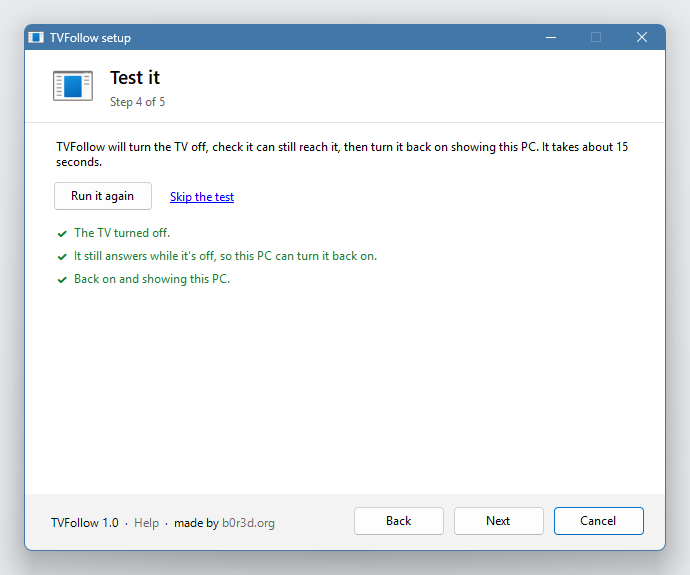
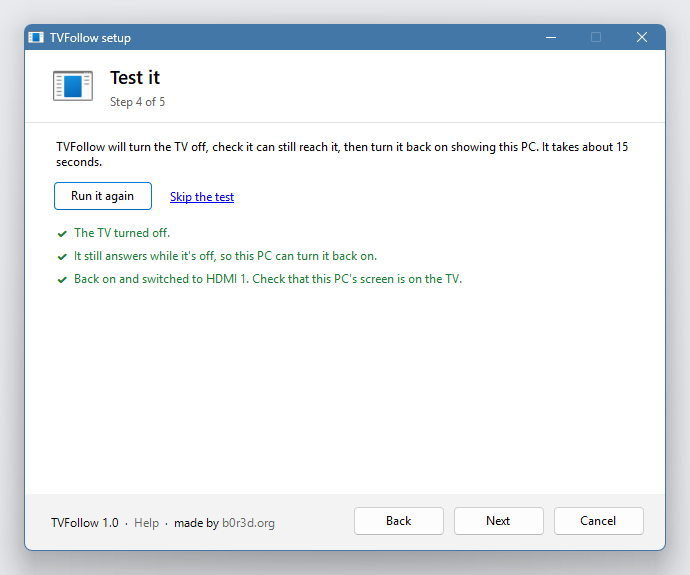
Docs: match the fixes
Windows 10 menu names next to Windows 11 ones, the Network access step everywhere, what the network search does now, the new log lines, pause across restarts, what the checksum is for, build.cmd's pause, a settings table instead of inline comments. New screenshots (the TV list's font, the test's last line).

Changed region(s): [[0.213, 0.473, 0.6696, 0.5026]]

diff --git a/docs/TROUBLESHOOTING.md b/docs/TROUBLESHOOTING.md
@@ -11,7 +11,9 @@ explained:
 | `waiting for the mouse or keyboard before turning the TV on` | The screens came on with nobody there, so it waits for you |
 | `power on (was DisplayOff) -> 200` | It pressed the TV's power button, and the TV said OK |
 | `-> 403` | The TV refused: its Network access setting is on Limited (see below) |
-| `TV not answering, sending a wake packet` | The TV was asleep too deeply to answer, so TVFollow sent the network wake signal |
+| `TV not answering, sent a wake packet (3 addresses)` | The TV was asleep too deeply to answer, so TVFollow sent the network wake signal |
+| `no network to send a wake packet on` | The PC's own network wasn't up yet (just after sleep, say) |
+| `this PC isn't on the TV's network` | A laptop away from home, say: TVFollow leaves the network alone |
 | `TV found at 192.168.1.73` | The router gave the TV a new address, and TVFollow found it again |
 
 ## Setup can't find my TV
@@ -21,10 +23,11 @@ explained:
 - Some mesh routers and Wi-Fi extenders keep devices from seeing each other ("client
   isolation" or "AP isolation"). Check the router's app.
 - Type the address in: click **Enter the TV's address instead**. The TV shows its
-  address under **Settings → Network → About**.
-- If **Control by mobile apps** is switched off on the TV, it doesn't answer at all. On
-  the TV: **Settings → System → Advanced system settings → Control by mobile apps**, and
-  set it to **Enabled**.
+  address under **Settings → Network → About**. TVFollow remembers it, so reopening
+  Settings finds the TV again.
+- If the TV's **Network access** is set to **Disabled**, it doesn't answer at all. On
+  the TV: **Settings → System → Advanced system settings → Control by mobile apps →
+  Network access → Enabled**.
 - A Roku **stick or box** shows up greyed out. It can't turn a TV on or off, so
   TVFollow can't use it.
 
@@ -41,9 +44,9 @@ The TV probably switches its network off along with the screen.
 1. On the TV: **Settings → System → Power → Fast TV start**, and turn it on.
 2. Run the test again: right-click the TV icon → **Settings…** → go to **Test it**.
 
-TVFollow also sends a network wake signal when the TV doesn't answer, which wakes many
-TVs even from deep standby. If the log shows `sending a wake packet` and then
-`TV not found`, Fast TV start is the fix.
+TVFollow also sends a network wake signal when the TV doesn't answer, again every few
+seconds for 20 seconds, which wakes many TVs even from deep standby. If the log shows
+`sent a wake packet` and then `TV not found`, Fast TV start is the fix.
 
 ## The TV comes on but shows the Roku home screen instead of my PC
 
@@ -58,16 +61,18 @@ Open **Settings…** and check the input on the **Which input is this PC on?** p
   input or app, the log says `leaving it on`.
 - Check the option **Turn the TV off when this PC's monitors turn off** under
   **Settings…** → **All set**.
-- It follows *Windows'* screen timeout (**Settings → System → Power**), not the monitors'
-  own power buttons. Turning a monitor off by its button doesn't tell Windows anything.
-- Is it paused? The tray icon is grey while paused.
+- It follows *Windows'* screen timeout (**Settings → System → Power**; on Windows 10,
+  **Settings → System → Power & sleep**), not the monitors' own power buttons. Turning a
+  monitor off by its button doesn't tell Windows anything.
+- Is it paused? The tray icon is grey while paused, and stays paused across restarts
+  until you choose **Resume following**.
 
 ## The TV turned off while I was watching something on the PC
 
 That happens when Windows switched the screens off, which it does after the screen
 timeout with no mouse or keyboard input. Video players normally keep the screens on.
 Use **Pause following** while you watch, or lengthen the screen timeout in
-**Settings → System → Power**.
+**Settings → System → Power** (Windows 10: **Power & sleep**).
 
 ## All my screens flicker when the TV turns on
 
@@ -78,10 +83,11 @@ normal for any monitor that powers on, and TVFollow can't stop it.
 
 TVFollow isn't code-signed, so Windows SmartScreen shows **"Windows protected your PC"**
 the first time. Click **More info → Run anyway**. Some antivirus tools are wary of small
-unsigned programs that look around the local network, which TVFollow does once, during
-setup, to find the TV. If you'd rather check it yourself,
-[build it from the source](../README.md#build-it-yourself). Each release lists a
-SHA-256 checksum to compare against.
+unsigned programs that look around the local network. TVFollow does that during setup,
+to find the TV, and afterwards only if the TV goes missing: then it looks on the TV's own
+network (never on other networks a laptop joins), at most once every ten minutes. If
+you'd rather check it yourself, [build it from the source](../README.md#build-it-yourself).
+The SHA-256 checksum next to each release download is for checking that download.
 
 ## Two PCs, one TV
 
@@ -91,7 +97,8 @@ input, so they don't fight over it.
 ## Start over
 
 Right-click the TV icon → **Settings…** and go through setup again, or uninstall
-(**Settings → Apps → Installed apps → TVFollow**) and run TVFollow.exe again.
+(**Settings → Apps → Installed apps → TVFollow**; on Windows 10, **Settings → Apps →
+Apps & features**) and run TVFollow.exe again.
 
 ## Still stuck?
 

diff --git a/docs/HOW-IT-WORKS.md b/docs/HOW-IT-WORKS.md
@@ -20,8 +20,9 @@ about twice a second.
 | Screens off | Turns the TV off, if it's showing your PC |
 | Screens on, mouse or keyboard used in the last 5 seconds | Turns the TV on and switches it to your PC, unless it's on and showing something else |
 | Screens on, nobody there | Waits for the mouse or keyboard, then as above |
+| Screens dimmed, then back to full brightness | Nothing (the screens never went off) |
 | Sleep or shutdown | Turns the TV off, if it's showing your PC (quickly, without retries) |
-| Paused | Nothing |
+| Paused | Nothing, until you resume (also across restarts) |
 
 TVFollow waits a second after the screens change before acting, so a quick flicker
 doesn't switch the TV off and on.
@@ -41,15 +42,25 @@ TVFollow uses only these:
 | `POST /keypress/PowerOff`, `PowerOn` | Turning it off and on |
 | `POST /keypress/InputHDMI1` (or `/launch/tvinput.hdmi1`) | Switching to your PC |
 
-To find the TV, setup tries port 8060 on every address in your PC's own network (the
-`192.168.1.1` to `.254` around the PC, for example). These are ordinary outgoing
-connections, so Windows Firewall doesn't ask about them. If the TV later gets a new
-address, TVFollow searches the same way and picks it out by its serial number, so it
-never grabs a different Roku in the house.
+TVFollow treats every reply as untrusted, since anything on the network could answer
+on port 8060: it refuses replies over 256 KB, gives every request a hard deadline, and
+never follows references inside a reply (no DTDs, no outside files).
+
+To find the TV, setup tries port 8060 on every address in your PC's own networks (the
+`192.168.1.1` to `.254` around the PC, for example; on bigger networks, up to 1,022
+addresses). These are ordinary outgoing connections, so Windows Firewall doesn't ask
+about them. Setup also tries the address you used last time, so a TV you had to type in
+is found again.
+
+If the TV later stops answering and the PC is on the TV's network, TVFollow searches that
+network only (never other networks a laptop joins), at most once every ten minutes, and
+picks the TV out by its serial number, so it never grabs a different Roku in the house.
 
 If the TV doesn't answer when it's time to turn it on, TVFollow sends a
-**Wake-on-LAN packet** to the TV's network address (Wi-Fi or cable, whichever the TV
-uses) and gives it 20 seconds to wake up.
+**Wake-on-LAN packet** for the TV's network card (Wi-Fi or cable, whichever the TV uses;
+TVFollow notices if that changes) to the broadcast address of each network the PC is on,
+again every 3 seconds, and gives the TV 20 seconds to wake up. If the PC isn't on the
+TV's network, it sends nothing.
 
 ## Checking for new versions
 
@@ -80,16 +91,27 @@ delete that file to make it check again at the next start.
 `settings.ini` is plain text, and setup writes it:
 
 ```ini
-ip=192.168.1.50                 # the TV's address (updated by itself if it changes)
-serial=X000000000               # the TV's serial number, to tell it apart from other Rokus
-input=hdmi1                     # the input your PC is plugged into
-wake_mac=00:11:22:33:44:55      # the TV's network card, for the wake signal
+ip=192.168.1.50
+serial=X000000000
+input=hdmi1
+wake_mac=00:11:22:33:44:55
 off_with_monitors=yes
 on_with_monitors=yes
 start_with_windows=yes
 desktop_shortcuts=no
-check_updates=yes               # ask GitHub once a week whether there's a newer TVFollow
+check_updates=yes
 ```
+
+| Key | Means |
+|---|---|
+| `ip` | The TV's address (updated by itself if it changes) |
+| `serial` | The TV's serial number, to tell it apart from other Rokus |
+| `input` | The input your PC is plugged into |
+| `wake_mac` | The TV's network card, for the wake signal (updated by itself) |
+| `off_with_monitors`, `on_with_monitors` | The two "follow" options |
+| `start_with_windows`, `desktop_shortcuts` | Install options |
+| `check_updates` | Ask GitHub once a week whether there's a newer TVFollow |
+| `paused` | Only there while paused from the tray (`paused=yes`) |
 
 Everything is per user, so TVFollow never needs admin rights. Uninstalling removes all
 of it.

diff --git a/README.md b/README.md
@@ -76,12 +76,14 @@ TVFollow runs from a small TV icon in the taskbar corner. You might need to clic
 ![The tray menu: TV on, TV off, TV to PC, Pause following, Settings, Open log, Quit](docs/images/6-tray-menu.png)
 
 - **TV on / TV off / TV to PC**: buttons for the TV, any time.
-- **Pause following**: leave the TV alone until you resume, for example while someone
-  watches TV and your PC goes to sleep. The icon turns grey while paused.
+- **Pause following**: leave the TV alone until you resume (even across restarts), for
+  example while someone watches TV and your PC goes to sleep. The icon turns grey while
+  paused.
 - **Settings…**: opens the setup window again, to change the TV, the input or the
   options. Double-clicking the icon does the same.
 - **Open log**: what TVFollow did and when, handy if something seems off.
-- **Quit TVFollow**: stops it until you sign in again, or open TVFollow from the Start menu.
+- **Quit TVFollow**: stops it. It starts again when you sign in (if it starts with
+  Windows) or when you open TVFollow from the Start menu.
 
 If you ticked the desktop shortcuts option, **TV on**, **TV off** and **TV to PC** are on
 your desktop too.
@@ -105,9 +107,10 @@ More detail in [How it works](docs/HOW-IT-WORKS.md).
 ## Change settings or uninstall
 
 - **Change settings:** right-click the tray icon → **Settings…**, or open **TVFollow**
-  from the Start menu.
-- **Uninstall:** **Settings → Apps → Installed apps → TVFollow → Uninstall**. That
-  removes the program, its shortcuts, its settings and its log. Nothing on the TV changes.
+  from the Start menu while it's running (if it isn't running, that starts it).
+- **Uninstall:** **Settings → Apps → Installed apps → TVFollow → Uninstall** (on
+  Windows 10: **Settings → Apps → Apps & features**). That removes the program, its
+  shortcuts, its settings and its log. Nothing on the TV changes.
 
 ## Privacy
 
@@ -146,11 +149,14 @@ After setup, TVFollow lives in `%LOCALAPPDATA%\Programs\TVFollow`.
 You don't need anything installed. Windows already has the C# compiler TVFollow uses.
 
 1. Download the source (**Code → Download ZIP**) and unzip it.
-2. Double-click **build.cmd**. It makes `bin\TVFollow.exe`.
+2. Double-click **build.cmd**. It makes `bin\TVFollow.exe` and waits for a key press so
+   you can read how it went.
 3. Open `bin\TVFollow.exe` and set it up as above.
 
-`build.cmd test` also runs the tests, against a pretend TV. Every release is built the
-same way on GitHub's own machines, with a SHA-256 checksum next to the download.
+`build.cmd test` also runs the tests, against pretend TVs. Every release is built the
+same way on GitHub's own machines. The SHA-256 checksum next to each download is for
+checking that download; your own build won't match it byte for byte, because the
+compiler stamps each build differently.
 
 ## License
 

diff --git a/CHANGELOG.md b/CHANGELOG.md
@@ -17,7 +17,12 @@ The first public release.
   on.
 - Installs per user without admin. Start menu entry, optional start with Windows,
   optional TV on / off / to PC desktop shortcuts, and uninstall from Settings → Apps.
-- A tray icon with TV buttons, Pause following, Settings, the log and Quit.
+- A tray icon with TV buttons, Pause following (remembered across restarts), Settings,
+  the log and Quit.
+- Opening a newer TVFollow.exe shows setup, and finishing installs it over the old one.
+- Careful on the network: replies from "the TV" are treated as untrusted (no DTDs, size
+  and time limits), and a TV that went missing is only searched for on its own network,
+  at most every ten minutes.
 - Tells you when a new version is out: once a week it asks GitHub for the latest release
   (can be switched off in setup). It never downloads or installs anything by itself.
 - Licensed MIT with the Commons Clause: free to use, change and share, not to sell.
